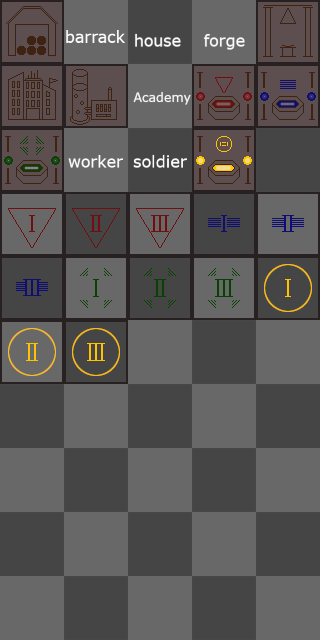
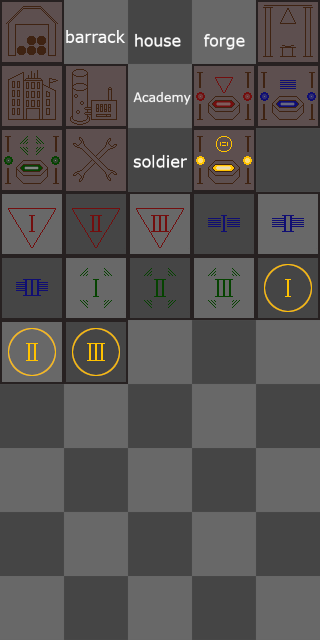
[resources] added some resources

Changed region(s): [[0.1875, 0.1875, 0.4062, 0.3125]]

diff --git a/src/cuttlefish/test/src/test_level1.cc b/src/cuttlefish/test/src/test_level1.cc
@@ -227,11 +227,11 @@ int main( int argc, char* args[] )
 	spriteLib_l.registerSpriteTemplate("resource_gas", window_l.loadTexture("resources/gas_prop1.png"), 2., 64, 64, 128, 128, {20, 1}, {0.1, 1.5}, 1);
 
 	// neutral
-	spriteLib_l.registerSpriteTemplate("command_center", window_l.loadTexture("resources/building.png"), 2., 32, 32, 64, 64, {2, 2, 2, 2}, {0.25, 0.5, 0.5, 0.5}, 1);
-	spriteLib_l.registerSpriteTemplate("deposit", window_l.loadTexture("resources/building.png"), 1., 32, 32, 64, 64, {2, 2, 2, 2}, {0.25, 0.5, 0.5, 0.5}, 1);
-	spriteLib_l.registerSpriteTemplate("ether_deposit", window_l.loadTexture("resources/building.png"), 1., 32, 32, 64, 64, {2, 2, 2, 2}, {0.25, 0.5, 0.5, 0.5}, 1);
-	spriteLib_l.registerSpriteTemplate("temple", window_l.loadTexture("resources/building.png"), 1., 32, 32, 64, 64, {2, 2, 2, 2}, {0.25, 0.5, 0.5, 0.5}, 1);
-	spriteLib_l.registerSpriteTemplate("worker", window_l.loadTexture("resources/circle.png"), 0.5, 32, 32, 64, 64, {2, 2}, {0.25, 1}, 1);
+	spriteLib_l.registerSpriteTemplate("command_center", window_l.loadTexture("resources/command_center.png"), 2., 32, 32, 64, 64, {2, 2, 2, 2}, {0.25, 0.5, 0.5, 0.5}, 1);
+	spriteLib_l.registerSpriteTemplate("deposit", window_l.loadTexture("resources/deposit.png"), 1., 32, 32, 64, 64, {2, 2, 2, 2}, {0.25, 0.5, 0.5, 0.5}, 1);
+	spriteLib_l.registerSpriteTemplate("ether_deposit", window_l.loadTexture("resources/ether_deposit.png"), 1., 32, 32, 64, 64, {2, 2, 2, 2}, {0.25, 0.5, 0.5, 0.5}, 1);
+	spriteLib_l.registerSpriteTemplate("temple", window_l.loadTexture("resources/temple.png"), 1., 32, 32, 64, 64, {2, 2, 2, 2}, {0.25, 0.5, 0.5, 0.5}, 1);
+	spriteLib_l.registerSpriteTemplate("worker", window_l.loadTexture("resources/worker.png"), 0.5, 32, 32, 64, 64, {2, 2}, {0.25, 1}, 1);
 
 	spriteLib_l.registerSpriteTemplate("div_armor_well", window_l.loadTexture("resources/well_2.png"), 1., 32, 32, 64, 64, {6, 1, 1, 1}, {0.25, 0.5, 0.5, 0.5}, 1);
 	spriteLib_l.registerSpriteTemplate("div_fire_well", window_l.loadTexture("resources/well_4.png"), 1., 32, 32, 64, 64, {6, 1, 1, 1}, {0.25, 0.5, 0.5, 0.5}, 1);
